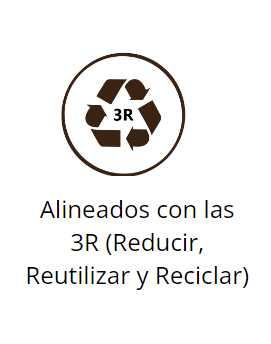
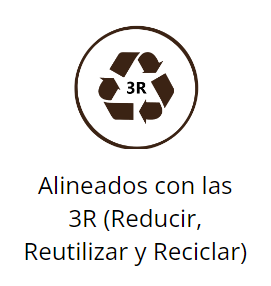
correcciones cliente

Changed region(s): [[0.0886, 0.5594, 0.9151, 0.951], [0.2066, 0.0839, 0.738, 0.5315]]

diff --git a/estilo2.css b/estilo2.css
@@ -18,6 +18,7 @@ nav{
     display: flex;
     flex-direction: column;
     align-items: center;
+    background-color: #fff;
 }
 
 ul li {
@@ -26,8 +27,11 @@ ul li {
    bottom:15px;
     justify-content: center;
     text-align: center;
-    color: #38337C;
-    
+   
+}
+
+nav ul li{
+    color:#014960;
 }
 
 ul li a{
@@ -48,7 +52,7 @@ ul li a{
    position: relative;
    text-align: center;
     text-decoration: none;
-    color: cadetblue;
+    color: #777;
 }
 
 footer{
@@ -97,6 +101,10 @@ footer ul{
     margin-bottom: 40px;
     font-size: 40px;
     text-align: center;
+}
+.subtitulo-negro.principios{
+    position: relative;
+    top:30px;
 }
 
 .subtitulo-azul{
@@ -211,7 +219,7 @@ h3{
     top:0px;
     margin:10px;
     border-radius:10%; 
-    border: 3px solid white;
+    border: 1px solid white;
     background-color: #828FC9;
 }
 
@@ -227,16 +235,16 @@ h3{
     
 }
 
-  /* Estilos para el modal */
+  
   .modal {
-    display: none; /* El modal está oculto por defecto */
+    display: none;
     position: fixed;
     z-index: 1000;
-    left: 30%;
-    top: 22.5%;
-    width:43%;
+    left:11%;
+    top:20%;
+    width:80%;
     height: auto;
-    background-color: rgba(0, 0, 0, 0.7); /* Fondo opaco */
+    background-color: rgba(0, 0, 0, 0.7);
     overflow: hidden;
 }
 
@@ -289,7 +297,7 @@ body.modal-open {
 
 .info-tabla{
     position: relative;
-    left:30px;
+    left:120px;
     top:6px;
     font-size: 90%;
     color: #06676F;
@@ -309,21 +317,20 @@ body.modal-open {
     margin-right:3px;
     width:62%;
     position: relative;
-    
     display:none;
 }
 
 .logo-gob{
     position: relative;
-    left: 65px;
-    width:3rem;
-    
+    left: 155px;
+    width:2.7rem;
+    top:7px;
 }
 
 .zonatabla{
     position: relative;
-    left: 75px;
-    width:3rem;
+    left: 165px;
+    width:4rem;
 }
 
 .microalga1, .microalga2, .microalga3, .microalga4, .microalga5, .microalga6, .microalga7, .microalga8, .microalga9, .microalga10, .microalga11, .microalga12, .microalga13{
@@ -376,6 +383,8 @@ body.modal-open {
     margin-bottom:50px;
     font-size: 40px;
     text-align: center;
+    position: relative;
+    top: 30px;
 }
 
 .hr {
@@ -392,14 +401,10 @@ body.modal-open {
     font-size:0.9rem;
     margin: 10px;
 }
-
-
-
-
 .imagen-principios {
-    display:flex; /* Usa flexbox para centrar verticalmente */
+    display:flex; 
    flex-direction: column;
-    justify-content: center; /* Centra horizontalmente */
+    justify-content: center; 
     padding: 0px;
     align-items: center;
     margin: 0;
@@ -456,10 +461,10 @@ position: relative;
 left:10%;
 }
 .img4, .img5{width:90%; height:auto;}
-.img6{width:90%; height:auto; 
+.img6{width:80%; height:auto; 
     display: flex;
     justify-content: center;
-    margin: 8px auto;
+    margin:30px auto;
 }
 .img7{ width:70%; height:auto;
     display: flex;
@@ -590,23 +595,25 @@ ul li.parrafo-referencias{
     list-style:circle;
     
 }
-.alinear1{
-    position: relative;
-    top:-12px;
-}
 
-.alinear2{
-    position: relative;
-    top:-19px;
-}
-
-.alinear3{
-    position: relative;
-    top:8px;
-}
 
 @media (min-width:1000px) {
+    .alinear1{
+        position: relative;
+        top:43px;
+    }
 
+
+    
+    .alinear3{
+        position: relative;
+        top:-8px;
+    }
+    
+    .alinear4{
+        position: relative;
+        top:-42px;
+    }
     .inimg50,.inimg60{
         display: inline;
         width:43%;
@@ -662,6 +669,14 @@ ul li.parrafo-referencias{
         margin: 0 auto;
     }
 
+    .fila-img.post4{
+        width:80%;
+        margin: 0 auto;
+    }
+
+    .fila-img.post4 img{
+        margin:20px;
+    }
     .inimg70 {
         width:30%; height:auto;
         
@@ -685,7 +700,15 @@ ul li.parrafo-referencias{
         position: relative;
         right:30px;
     }
-    .img6 , .img7 , .img8 ,.img9{
+    .img6 {
+        width:35%;
+        margin-top:50px;
+    }
+    .img7 {
+        width:26%;
+        margin-top:50px;
+    }
+    .img8 ,.img9{
         width:40%;
         margin-top:50px;
     }
@@ -751,9 +774,6 @@ ul li.parrafo-referencias{
     font-size: larger;
 }
 
-ul li{
-    list-style:disc;
-}
 
   .colaborador {
     font-size:90%;    
@@ -856,5 +876,28 @@ left:60px;
 
 .seccion5, .seccion4, .seccion7{
     padding-top:90px;
+}
+
+.seccion4{
+    height:105vh;
+}
+
+h3{
+    font-size: xx-large;
+    font-weight:500;
+}
+
+.subtitulo-nos{
+    position: relative;
+       top:0px;
+   }
+   .subtitulo-negro.principios{
+    position: relative;
+    top:-30px;
+}
+.modal {
+    left:23%;
+    top:2%;
+    width:50%;
 }
 }

diff --git a/index.html b/index.html
@@ -53,6 +53,7 @@ En ese sentido valoramos la respuesta entusiasta de los visitantes en Aquasur, q
 Esta positiva experiencia en Aquasur fortalece el compromiso de Zona Fótica con la colaboración transdisciplinaria y el desarrollo sostenible en la acuicultura.
 Agradecimientos a: Sergio Castillo por los diseños gráficos, Sebastián Cárcamo por la imprenta y elaboración de vestimenta corporativa, Yohny Altamirano Bravo 
 Aquotek Services por el apoyo logístico, a los investigadores, Dr. David Cassis, Dr. Patricio Diaz, Dr. Javier Paredes, Dr. Jorge Mardones, Dr. Pablo Ibieta y Dr. Alejandro Rojas por su tiempo y asesorías además de la facilitación de insumos para nuestro stand, a Cristian Gutiérrez y Héctor Contreras por el desarrollo de nuestra página web junto a Maricel González por su gestión de las RRSS, la agrupación los Queltehues de Lenca, por su visita y permitirnos desde hace más de un año trabajar en conjunto desde un enfoque transdisciplinario, Alberto Martínez por su apoyo desde la fundación de nuestra consultora y por supuesto al concurso Despega tu Emprendimiento de @fisa_oficial que nos permitió participar de Aquasur 2024.</div>
+<br/>
 <div class="fila-img post">
 <img src="./imagenes/temporal/foto1feria.jpg" class="inimg20">
 <img src="./imagenes/temporal/foto9feria.jpg" class="inimg30">
@@ -122,10 +123,10 @@ Aquotek Services por el apoyo logístico, a los investigadores, Dr. David Cassis
 <div class="parrafo-servicios">
   <b>Evaluación y cuantificación del bienestar de los peces (fish welfare) en puntos críticos de la cadena de valor de la salmonicultura.</b><br/><br/>
 </div>
-
+<div class="fila-img post4">
 <img src="./imagenes/servicios/servicios3/Bienestar de Peces.png"   class="img6">
 <img src="./imagenes/servicios/servicios3/investigacionyservicio.jpeg" class="img7"><br/>
-
+</div>
 <div class="parrafo-servicios">Estamos comprometidos con la excelencia, la innovación y la sostenibilidad, contribuyendo al éxito continuo de la industria acuícola a nivel global.</div>
 <br/><br/>
 <div class="parrafo-servicios">
@@ -146,7 +147,7 @@ Aquotek Services por el apoyo logístico, a los investigadores, Dr. David Cassis
 <img src="./imagenes/servicios/servicios5/Cultivos celulares  Alexandrium catenella, Pseuchatonella verruculosa_ (aisladas de FAN 2016) y Heterosigma akashiwo (aisladas de FAN 2021).jpeg" width="300" height="270" style="margin-right:10px;" class="img10">
 <img src="./imagenes/servicios/servicios5/Figura 1. Cultivo celular de Talassiosira pseudonana aislada de la FAN de noviembre de 2023 en el Seno de Relocanví.jpeg" width="300" height="270" style="margin-right:10px;" class="img11">
 <img src="./imagenes/servicios/servicios5/Seminario Bienestar Animal-20240220T140212Z-001.jpeg" width="300" height="270" class="img12"><br/><br/>
-</div>
+</div><br/>
 <div class="parrafo-servicios">Estamos comprometidos con la excelencia, la innovación y la sostenibilidad, contribuyendo al éxito continuo de la industria acuícola a nivel global.</div>
 <br/><br/>
 <div class="parrafo-servicios"><br/>
@@ -169,13 +170,13 @@ Nos avalan más de 10 años de experiencia en investigación en Floraciones Alga
  </section>
 <!--principios-->
  <section class="seccion4" id="principios">
-  <h2 class="subtitulo-negro">Principios</h2> 
+  <h2 class="subtitulo-negro principios">Principios</h2> 
       <div class="imagen-principios"><img src="./imagenes/Iconos/excelencia.png" ></div>
       <div class="imagen-principios"><img src="./imagenes/Iconos/Honestidad.png" class="alinear1" > </div>
       <div class="imagen-principios"><img src="./imagenes/Iconos/Innovación.png" > </div>
-      <div class="imagen-principios"><img src="./imagenes/Iconos/Alineados.png" class="alinear2"> </div>
-      <div class="imagen-principios"><img src="./imagenes/Iconos/Trabajoenequipo.png"  class="alinear3"> </div>
- </section>
+      <div class="imagen-principios"><img src="./imagenes/Iconos/Alineados.png" class="alinear3"> </div>
+      <div class="imagen-principios"><img src="./imagenes/Iconos/Trabajoenequipo.png"  class="alinear4"> </div>
+    </section>
  <!--nosotros-->
  <section class="seccion5" id="nosotros">
   <h2 class="subtitulo-nos">Nosotros</h2>
